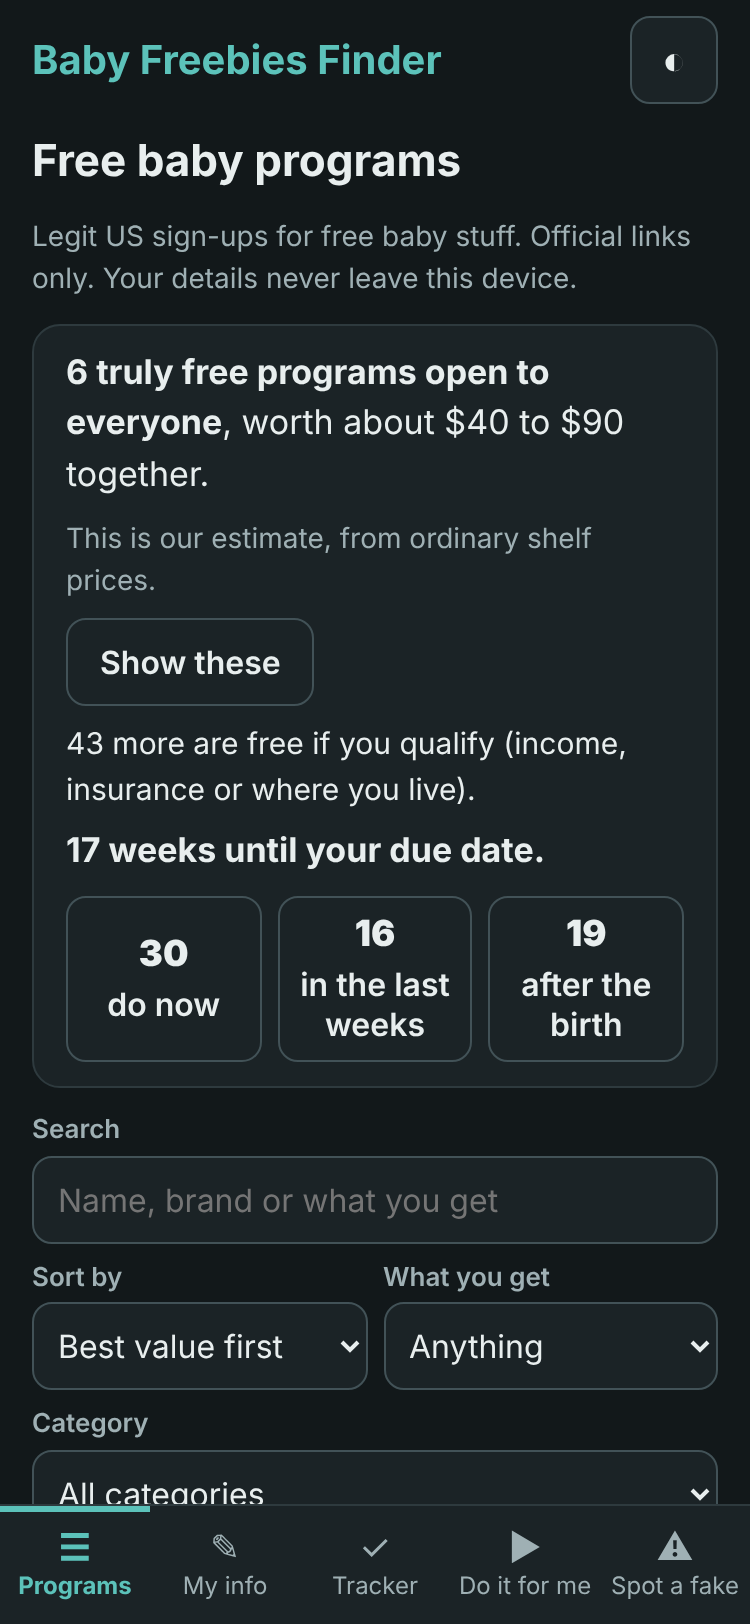
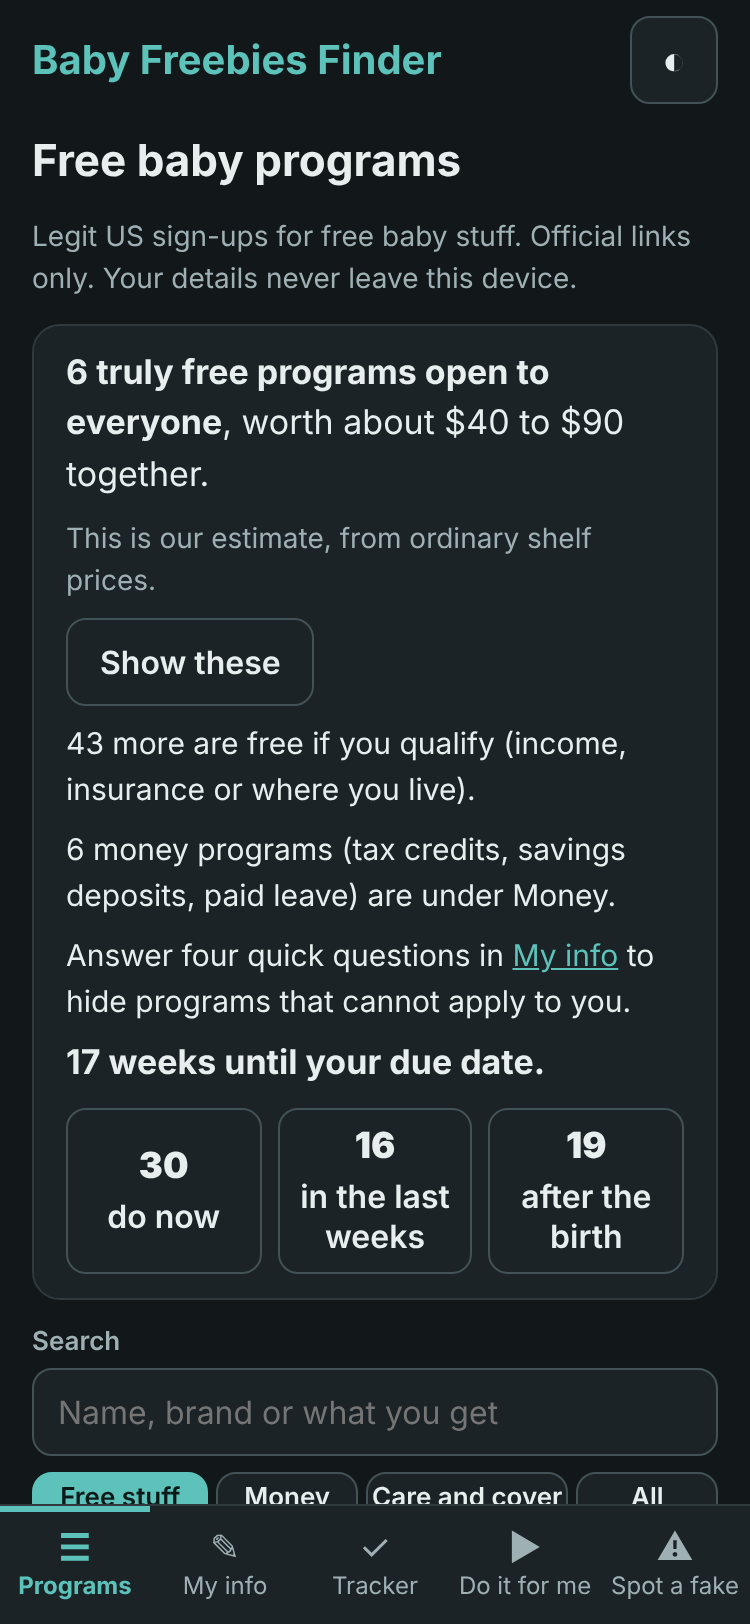
Update README, working rules and screenshots for tabs and situation questions
Claude-Session: https://claude.ai/code/session_0129JtExaFfqidfghtzEj3gZ

Changed region(s): [[0.0307, 0.4926, 0.9507, 0.9236], [0.8893, 0.7081, 0.92, 0.8005], [0.92, 0.8005, 0.9507, 0.8313]]

diff --git a/README.md b/README.md
@@ -5,7 +5,9 @@ Baby Freebies Finder is a page you can use on a phone or computer to find legiti
 ## Screenshots
 
 <p align="center">
-  <img src="docs/screenshots/programs.png" alt="The Programs view on a phone, listing free baby programs with search and filters" width="240">
+  <img src="docs/screenshots/programs.png" alt="The Programs view on a phone, with tabs for Free stuff, Money, Care and cover and All, and short program cards" width="240">
+  <img src="docs/screenshots/programs-tabs.png" alt="The top of the Programs view on a phone, with the four tabs and the Sort and filter panel" width="240">
+  <img src="docs/screenshots/my-info-situation.png" alt="The Your situation questions in My info on a phone, asking about health cover, insurer, WIC or SNAP help and paid work" width="240">
   <img src="docs/screenshots/guided.png" alt="The Do it for me view on a phone, showing an open sign-up page button and a set of details to copy" width="240">
   <img src="docs/screenshots/programs-dark.png" alt="The Programs view in dark mode on a phone" width="240">
   <img src="docs/screenshots/tracker-email.png" alt="The Tracker's Email and calendar panel on a phone, with buttons for the checklist email, Gmail filters and calendar reminders" width="240">
@@ -13,8 +15,8 @@ Baby Freebies Finder is a page you can use on a phone or computer to find legiti
 
 ## What's inside
 
-- **Programs:** the full directory, ranked by what it is worth. A summary at the top shows how many truly free programs are open to everyone, about what they are worth together, and how many more are free if you qualify. Use **Show these** to filter to the truly free ones. Search, filter by category or by "What you get", or tick "Truly free", "Open to everyone", "Email only" or "Needs a registry". You can sort by best value first, by when to do it, or in other ways. Each card says what arrives free, the estimated value, how sure it is, the effort and the best time. See [How the ranking works](#how-the-ranking-works).
-- **My info:** your name, email, address, state and due date. It is stored only in your browser. Your state hides programs that are only for other states, and your due date builds the plan by due date. Tip: use a dedicated inbox or a plus address like `yourname+baby@gmail.com`, so sign-up mail is easy to filter. At the end of My info, the **Fill forms on your phone** card shows three ways to fill sign-up forms on an iPhone. See [On an iPhone](#on-an-iphone).
+- **Programs:** the full directory, ranked by what it is worth. The page opens on the **Free stuff** tab. Other tabs are **Money**, **Care and cover** and **All**. A summary shows how many truly free programs are open to everyone, about what they are worth together, and how many more are free if you qualify. Use **Show these** to see just the truly free ones. Search sits above the tabs. Under **Sort and filter** you can sort, filter by "What you get" or category, and tick "Truly free", "Open to everyone", "Email only", "Needs a registry" or "Fits my answers". Each card is short: it shows what arrives free, the estimated value, a badge for how sure it is, and the sign-up link. Press **Details** for the rest, such as the effort, the best time, the catches and the sources. See [How the ranking works](#how-the-ranking-works).
+- **My info:** your name, email, address, state and due date. It is stored only in your browser. Your state hides programs that are only for other states, and your due date builds the plan by due date. **Your situation (optional)** asks four quick questions: health cover, insurer, whether your household gets WIC, SNAP or similar help, and whether you or your partner have a paid job. Programs that cannot apply to your answers are hidden, and ones that fit get a badge. Your answers stay in your browser and are never used to fill in forms. Tip: use a dedicated inbox or a plus address like `yourname+baby@gmail.com`, so sign-up mail is easy to filter. At the end of My info, the **Fill forms on your phone** card shows three ways to fill sign-up forms on an iPhone. See [On an iPhone](#on-an-iphone).
 - **Tracker:** mark each program as To do, Signed up, Received or Skipped, and add notes. The total at the top estimates the value of what you have signed up for or received. You can download a JSON backup and restore it later. Inside Claude, the **Gmail connection** card under the Email and calendar card is optional. See [Connect Gmail (inside Claude)](#connect-gmail-inside-claude).
 - **Do it for me:** pick the programs you want, then go through them one at a time in ranked order. By default it selects the truly free programs that have no eligibility rules. Each step opens the official sign-up page and gives you Copy buttons for your details. You press the buttons yourself.
 - **Spot a fake:** short tips for telling real freebie offers from scams.
@@ -39,7 +41,7 @@ Money and savings covers tax credits, account deposits for newborns and paid fam
 
 ## How the ranking works
 
-- **Truly free** means free to claim, no purchase or paid membership, a real product or sample comes first, and it does not depend on chance. Sweepstakes, coupons, points and product testing never count as truly free. The "Truly free" tick box shows only these.
+- **Truly free** means free to claim, no purchase or paid membership, a real product or sample comes first, and it does not depend on chance. Sweepstakes, coupons, points and product testing never count as truly free. The "Truly free" tick box, under Sort and filter, shows only these.
 - **Open to everyone** leaves out programs that depend on eligibility rules, such as income, insurance or where you live.
 - **Five groups**, in this order under "Best value first":
   - **Top pick:** an expected value of 100 dollars or more.

diff --git a/CLAUDE.md b/CLAUDE.md
@@ -34,6 +34,8 @@ Layout: `src/` (HTML, CSS, vanilla JS), `data/programs.json`, `scripts/build.mjs
 
 Phase G fields (full definitions in `ARCHITECTURE.md`, "Phase G"; `tests/data.test.mjs` enforces them): `offers` (not empty, most important first, from: product, coupons, points, sweepstakes, service, coverage, cash, testing), `certainty` (guaranteed, likely, if-eligible, chance), `freeStuff` (what arrives with no cost and no purchase, or `""`), `valueLow` and `valueHigh` (whole dollars for one family in the first year, or both null), `valueSource` (official, estimate, none), `valueBasis`, `effort` (quick, some, involved), `when` (pregnancy, late-pregnancy, after-birth, anytime), `whenNote`, `states` (USPS codes, `[]` when nationwide), `sameAs` (`""`, or the id of the main entry when this is another way to get the same thing).
 
+Phase H fields (`tests/data.test.mjs` enforces them): `audience` (a list of tags from medicaid, wic, low-income, insured, marketplace, employer, worker, military, local, member; `[]` means anyone, and every tag must hold) and `insurer` (non-empty exactly when `audience` has `member`).
+
 "Truly free" in the app means: free to claim, no purchase or paid membership, the first offer is a product, and it does not depend on chance. Sweepstakes, coupons, points and product testing never count. Keep that meaning when adding data or filters.
 
 ## Product rules
@@ -43,7 +45,7 @@ Phase G fields (full definitions in `ARCHITECTURE.md`, "Phase G"; `tests/data.te
 - No frameworks and no runtime dependencies. `node scripts/build.mjs` builds `index.html` (works offline, from disk or on GitHub Pages; its Content-Security-Policy blocks all network requests) and `artifact.html` (a fragment for publishing as a Claude artifact). Commit both after every change to `src/` or the data; CI fails if either is stale.
 - Inside a Claude artifact, `window.open`, `mailto:`, `<a download>`, `alert`, `confirm`, `prompt` and printing do not work for most viewers. Go through `BFF.host` (real `<a href>` links, Claude's save prompt, copyable text) and never tell the person something was sent or saved unless the host confirmed it.
 - Never put a raw U+2028 or U+2029 character in source, and do not type them as backslash-u escapes (the tooling turns those into raw characters, which breaks the page). Use `String.fromCharCode(0x2028)`.
-- Personal details live only in the browser's localStorage.
+- Personal details live only in the browser's localStorage. The four "Your situation" answers in My info are used only to hide and badge programs, and they never go into the fill script, bookmark, phone view, autofill helper, guided copy or email.
 - The autofill helper never submits, never bypasses CAPTCHAs or bot checks, and does one site at a time.
 - Automation (Phases E and F) means one-tap buttons, downloads (Gmail filters, .ics reminders, backups), the tap-to-run Gmail connection, the fill script and GitHub Actions. It never means submitting sign-up forms or clicking through bot checks.
 - Link checks never pretend to be a person. A site that refuses robots (403, bot challenge, timeout) is recorded as blocked, not retried with other headers or tools, and its entry stays at medium confidence unless an official page was read directly.
